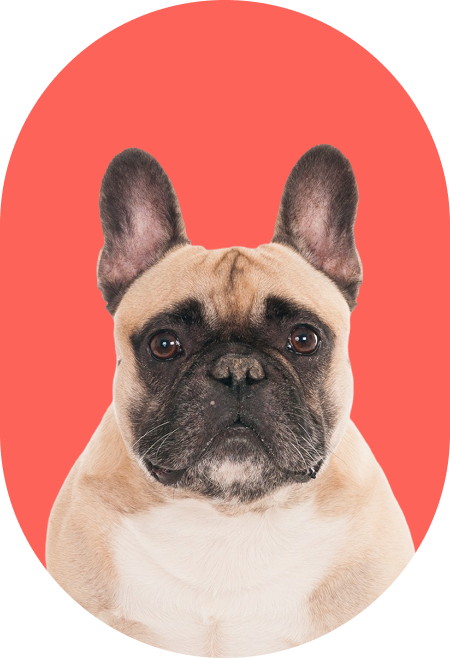
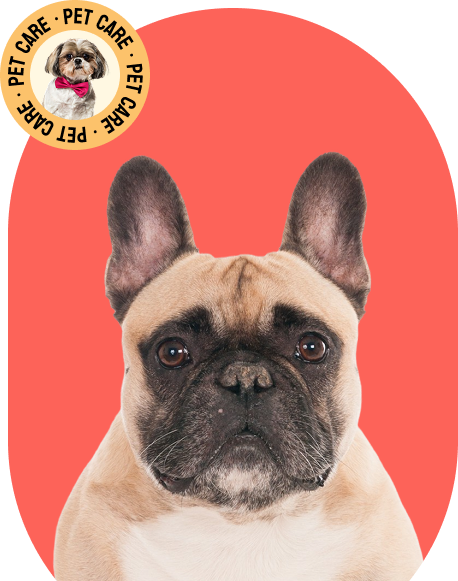
add about section

diff --git a/src/components/About/About.css b/src/components/About/About.css
@@ -1,0 +1,46 @@
+.about {
+  padding: 100px 0;
+}
+.about .container {
+  display: flex;
+  gap: 32px;
+}
+
+.about-image {
+  flex: 2;
+}
+
+.about-content {
+  flex: 3;
+}
+
+.about-content h2 {
+  font-size: 70px;
+  font-weight: normal;
+  text-transform: uppercase;
+}
+
+.about-content > p {
+  margin: 12px 0 24px 0;
+}
+
+.stats-wrapper {
+  display: flex;
+  gap: 32px;
+  margin-top: 56px;
+}
+
+.stat-item {
+  width: 100%;
+}
+
+.stat-item h3 {
+  font-size: 70px;
+  font-weight: 500;
+}
+
+.stat-item p {
+  font-size: 22px;
+  color: var(--heading-color);
+  font-family: "Bayon";
+}

diff --git a/src/components/About/About.jsx b/src/components/About/About.jsx
@@ -1,0 +1,40 @@
+import aboutImage from "../../assets/images/about-image.png";
+import "./About.css";
+
+function About() {
+  const statList = [
+    { number: "290K", name: "Product" },
+    { number: "99K", name: "Seller" },
+    { number: "2K", name: "Positive review" },
+  ];
+  return (
+    <section className="about">
+      <div className="container">
+        <div className="about-image">
+          <img src={aboutImage} alt="About image" />
+        </div>
+        <div className="about-content">
+          <h2>Passionate Care for Every Paw and Whisker.</h2>
+          <p>
+            We are dedicated to providing the highest quality care for your
+            pets, treating them as our own. With love, attention, and expertise,
+            we ensure every paw and whisker receives the care they deserve.
+          </p>
+          <a className="btn" href="#">
+            Read More
+          </a>
+          <div className="stats-wrapper">
+            {statList.map(({ name, number }, Index) => (
+              <div className="stat-item">
+                <h3>{number}</h3>
+                <p>{name}</p>
+              </div>
+            ))}
+          </div>
+        </div>
+      </div>
+    </section>
+  );
+}
+
+export default About;

diff --git a/src/index.css b/src/index.css
@@ -15,6 +15,7 @@ body {
   background-color: var(--main-background);
   font-family: "Lato", sans-serif;
   font-size: 16px;
+  line-height: 1.2;
 }
 
 .container {
@@ -25,6 +26,12 @@ body {
 
 a {
   text-decoration: none;
+}
+
+h1,
+h2,
+h3 {
+  font-family: "Bayon", sans-serif;
 }
 
 ul {
@@ -41,6 +48,8 @@ p {
   border-radius: 24px;
   color: var(--heading-color);
   font-size: 18px;
+  font-weight: 600;
+  display: inline-block;
 }
 
 img {

diff --git a/src/App.jsx b/src/App.jsx
@@ -1,6 +1,7 @@
 import React from "react";
 import NavBar from "./components/NavBar/NavBar";
 import Hero from "./components/Hero/Hero";
+import About from "./components/About/About";
 
 function App() {
   return (
@@ -10,6 +11,7 @@ function App() {
       </header>
       <main>
         <Hero />
+        <About />
       </main>
     </div>
   );